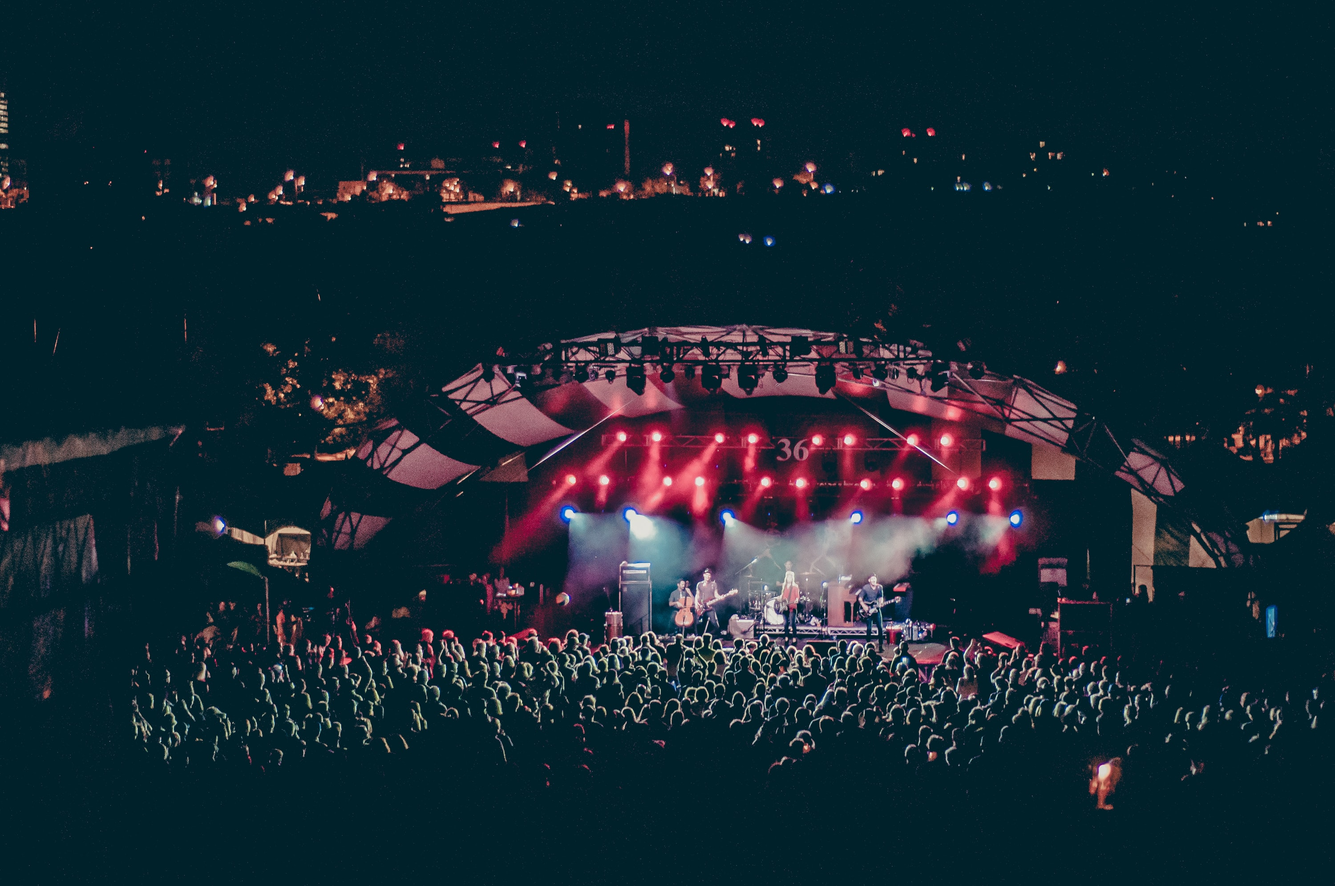
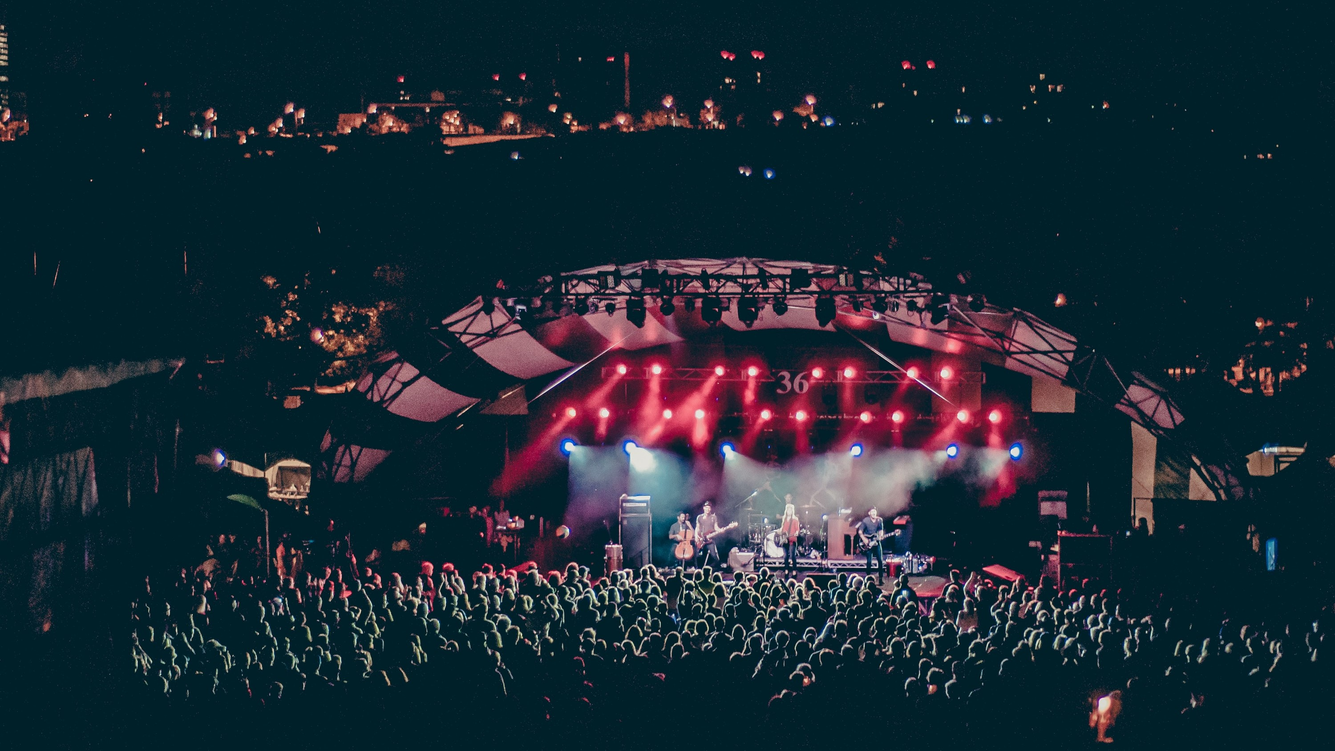
Made pages responsive

diff --git a/styles/styles.css b/styles/styles.css
@@ -37,11 +37,51 @@ nav ul li a {
   padding: 0 4rem;
   color: #fff;
   font-size:0.8rem;
+  white-space: nowrap;
 }
 
 nav ul li:not(#hireUs) {
   margin-top: 2rem;
   margin-bottom:2rem;
+}
+
+@media only screen and (max-width: 900px) {
+  header {
+    padding: 0.5rem 1rem;
+    box-sizing: border-box;
+  }
+
+  nav h1 {
+    margin-top: -60px;
+    margin-left: 0px;
+  }
+
+  #hm {
+    margin-left: -100px;
+  }
+
+  nav ul li {
+    margin-top: 2rem;
+    margin-bottom: 2rem;
+  }
+
+  #hireUs {
+    display: none;
+  }
+
+  nav ul li a {
+    padding: 0 0.5rem;
+    white-space: nowrap;
+  }
+  form {
+    width: 90%;
+  }
+
+  form h3,
+  progress {
+    width: 87%;
+    margin-left: 0.5rem;
+  }
 }
 
 #hireUs a{
@@ -59,8 +99,8 @@ nav ul li:not(#hireUs) {
      width:100%;
      /* margin-top:18rem; */
      padding:3rem 2rem 1rem 2rem;
-     position: absolute;
-     bottom: 0;
+     /* position: absolute;
+     bottom: 0; */
  }
 
 
@@ -71,12 +111,11 @@ nav ul li:not(#hireUs) {
  }
 
  .content {
-   height: 69vh;
+  height: 85vh;
    background-image: url(../img/concert.jpg);
-   background-size: cover;
-    position: relative;
-
-   
+   background-repeat:no-repeat;
+  background-size:cover;
+  background-position:top;
  }
 
  .content__text-box {
@@ -108,6 +147,41 @@ heading__button:visited {
   padding: .6rem 2rem;
   background-color: rgba(255, 255, 255, 0.602);
   cursor: pointer;
+}
+
+@media only screen and (max-width: 900px) {
+  .heading-primary--main {
+    text-transform: capitalize;
+    font-size: 3rem;
+  }
+  .heading-primary {
+    color: #fff;
+    font-family: cursive;
+    font-size: 1.3rem;
+  }
+
+  /* .content {
+    background-image: url(../img/concert-780w.jpg);
+  } */
+}
+
+
+@media (max-width: 426px){
+  .heading-primary--main::after {
+    content: "\A";
+  }
+  .heading-primary--sub::before {
+    content: "\A";
+    white-space: pre;
+  }
+  nav {
+    font-size: 70%;
+  }
+
+  .content {
+    height: 58vh;
+  }
+  
 }
 
 .content-pay {

diff --git a/landing.html b/landing.html
@@ -9,7 +9,7 @@
     <link rel="stylesheet" href="/styles/styles.css">
   </head>
   <body>
-    <div class="container">
+    <!-- <div class="container"> -->
       <header>
         <nav>
           <h1>Eventee</h1>
@@ -31,7 +31,7 @@
               Event
             </span>
             <span class="heading-primary--sub">
-              you want, We make Happen!
+              you want, We make it Happen!
             </span>
           </h1>
 
@@ -48,7 +48,7 @@
       <footer>
           <p>Eventee &copy | <time></time></p>
       </footer>
-    </div>
+    <!-- </div> -->
 
     <script>
         const currentDate = new Date()
